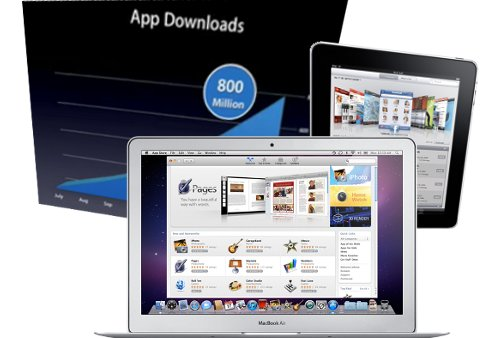
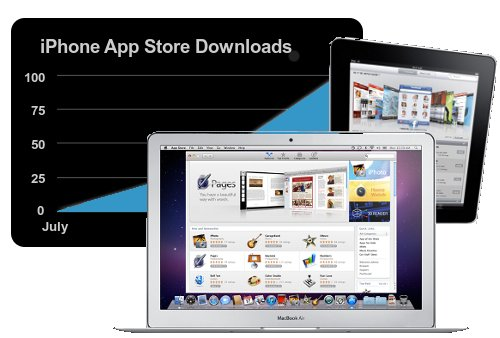
Revamped parts of the layout.

diff --git a/web-app/css/public.css b/web-app/css/public.css
@@ -8,30 +8,59 @@ html {
 #page {
     width:800px;
     margin:0 auto;
-    background:white;
+    background-color:white;
+    background-image: url(../images/page-bg.png);
+    background-repeat:repeat-y;
+    background-position:right;
 
 }
 
-#logo {
+
+#page-header {
+    margin: 0 auto;
     width:800px;
-    background:white;
-    border: 1px solid #A0A0A0;
-    border-right-width: 2px;
-    border-bottom-width: 0;
+    height:35px;
+    background-image: url(../images/tl-corner.png);
+    background-repeat:no-repeat;
+    background-color:white;
+}
+
+#page-header-right {
+    float:right;
+}
+
+
+#logo {
+
+
+    background-color:white;
+    background: url(../images/page-bg.png) repeat-y;
+    background-position:right;
+    width:800px;
+    border: 0;
     margin-bottom:0;
     padding-bottom:0;
-    height:119px;
+}
+
+#headline {
+    font-weight:bold;
+    color: white;
+    position:relative;
+    bottom:25px;
+    left:220px;
+    font-variant:small-caps;
+
+
 }
 
 #content {
-    background: url(../images/page-bg.png) repeat-x;
+    background: url(../images/page-bg.png) repeat-y;
+    background-position:right;
     min-height:800px;
     width:700px;
-    padding-top:30px;
+    border:0;
+    padding-top:0;
     padding-left:50px;
     padding-right:50px;
-    border: 2px solid #A0A0A0;
-    border-top-width: 1px;
-    border-top-color: #c0c0c0;
-    border-left-width: 1px;
+
 }
